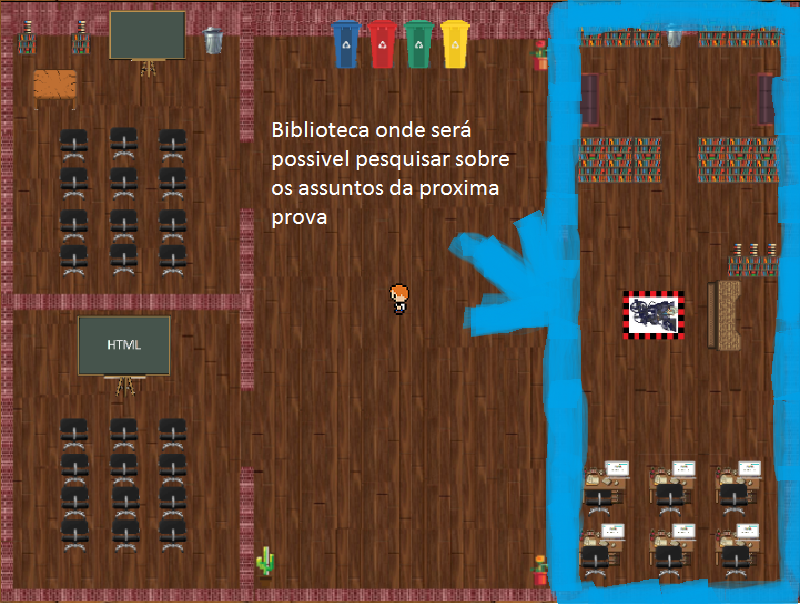
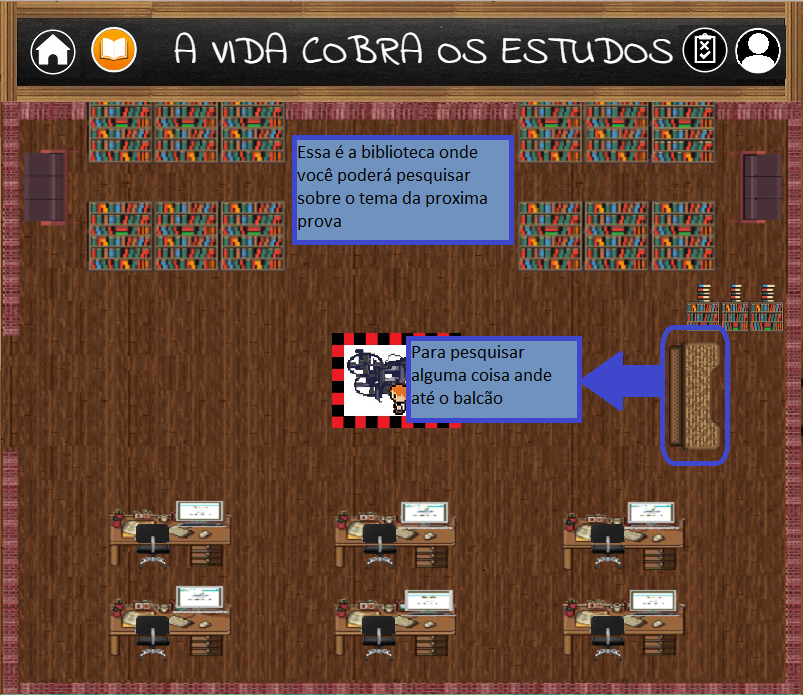
14/10

diff --git a/css/jogostyle.css b/css/jogostyle.css
@@ -1,5 +1,16 @@
+body{
+  background-image: url("../imgs/fundojogo.jpg");
+  background-repeat: no-repeat;
+}
+#iconprovas{
+  margin-left: 678px;
+  margin-top: -61px;
+ }
+ #iconperfilusuario{
+   margin-left: 729px;
+   margin-top: -61px;
+ }
 #tela{
-
   margin-left: 400px;
   margin-top: 100px;
   top: 0px;
@@ -11,6 +22,7 @@
   width: 800px;
 }
 #backgroundstatus{
+    background-image: url("../imgs/status.jpg");
   width: 800px;
   position: fixed;
   height: 100;

diff --git a/pages/perfilusuario.php b/pages/perfilusuario.php
@@ -42,9 +42,9 @@
     form+=  '<td><input type="text" name="nome" onfocusout="alteradados(this)" value="<?php echo $_SESSION['usuario']['nome'] ?>"></td>'
     form+=  '<td><input type="text" name="sobrenome" onfocusout="alteradados(this)" value="<?php echo $_SESSION['usuario']['sobrenome'] ?>"></td>'
     form+=  '<td><input type="text" name="sexo" onfocusout="alteradados(this)" value="<?php echo $_SESSION['usuario']['avatar'] ?>"></td>'
-    form+=  '<td><input type="text" name="usuario" onfocusout="alteradados(this)" value="<?php echo $_SESSION['usuario']['usuario']?>"></td>'
+    form+=  '<td id="titulos"><?php echo $_SESSION['usuario']['usuario']?></td>'
     form+=  '<td id="titulos"><?php echo $_SESSION['usuario']['data_cadastro'] ?></td>'
-    form+=  '<td><input type="text" name="email" onfocusout="alteradados(this)" value="<?php echo $_SESSION['usuario']['email'] ?>"></td>'
+    form+=  '<td id="titulos"><?php echo $_SESSION['usuario']['email'] ?></td>'
     form+=  '<td id="titulos" ><?php echo $_SESSION['usuario']['data_nasci'] ?></td>'
     form+=  '<td id="pontuacao"><?php echo $_SESSION['usuario']['pontuacao'] ?></td>'
     form+=  '</tr>'

diff --git a/pages/avc.php b/pages/avc.php
@@ -40,13 +40,7 @@ include_once("divinformacoes.php");
 
 
   <style media="screen">
-  body{
-    background-image: url("../imgs/fundojogo.jpg");
-    background-repeat: no-repeat;
-  }
-  #backgroundstatus{
-    background-image: url("../imgs/status.jpg");
-  }
+
   </style>
   <script>
   function fechacse() {
@@ -60,6 +54,9 @@ include_once("divinformacoes.php");
     document.getElementById('divranking').style.visibility="visible";
     document.getElementById('fecharankjogo').style.visibility="visible";
   }
+  function notasprovas() {
+  window.location = "mostraprovas.php";
+}
 
   </script>
 </head>
@@ -68,6 +65,8 @@ include_once("divinformacoes.php");
     <img src="../imgs/home.png" id="iconhome" onclick="logout();" alt="" />
     <img src="../imgs/ranking.png" id="iconranking" onclick="abrirranking();"alt="" />
     <h1 class="newFont" id="titulo">A VIDA COBRA OS ESTUDOS</h1>
+    <img src="../imgs/botaoprovas.png" id="iconprovas" onclick="notasprovas();" alt="" />
+    <img src="../imgs/perfilusuario.png" id="iconperfilusuario" onclick="" alt="" />
   </div>
 
 

diff --git a/includes/tutorial.php b/includes/tutorial.php
@@ -57,7 +57,7 @@
         </a>
       </div>
       <div class="carousel-item">
-        <img class="d-block w-100" src="../imgs/tutorialsaladeaula.png" alt="2o slide">
+        <img class="d-block w-100" src="../imgs/tutorialsaladeprova.png" alt="2o slide">
         <a class="carousel-control-next" href="#tutorial" role="button" data-slide="next">
           <span class="carousel-control-next-icon" aria-hidden="true"></span>
           <span class="sr-only">Next</span>

diff --git a/pages/montaprovascadastradas.php b/pages/montaprovascadastradas.php
@@ -22,6 +22,7 @@ include_once("../includes/banco_de_dados.php");
     };
     xmlhttp.open("POST", "../includes/validaprovacadastrada.php", true);
     xmlhttp.send(formData);
+    debugger;
     document.getElementById('provacadastrada').style.visibility="hidden";
   }
 
